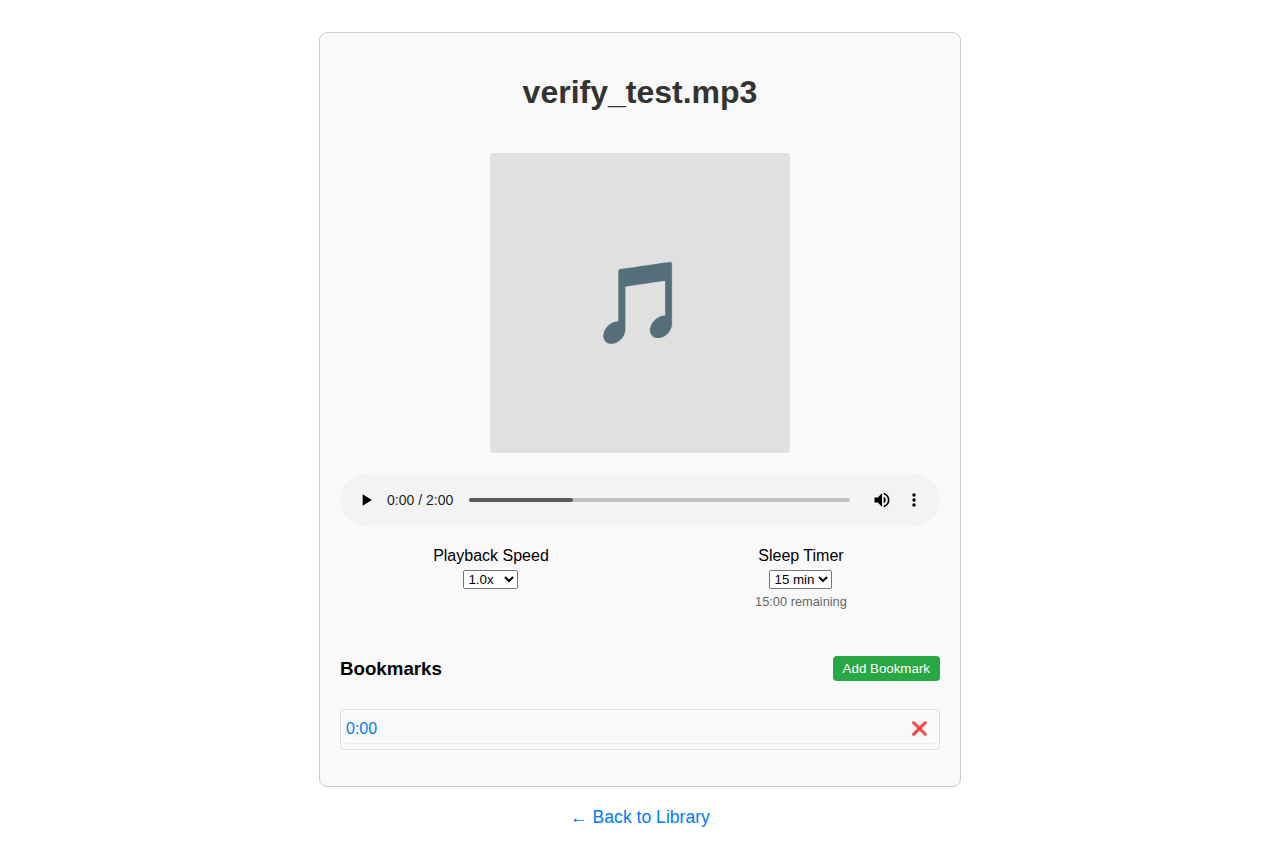
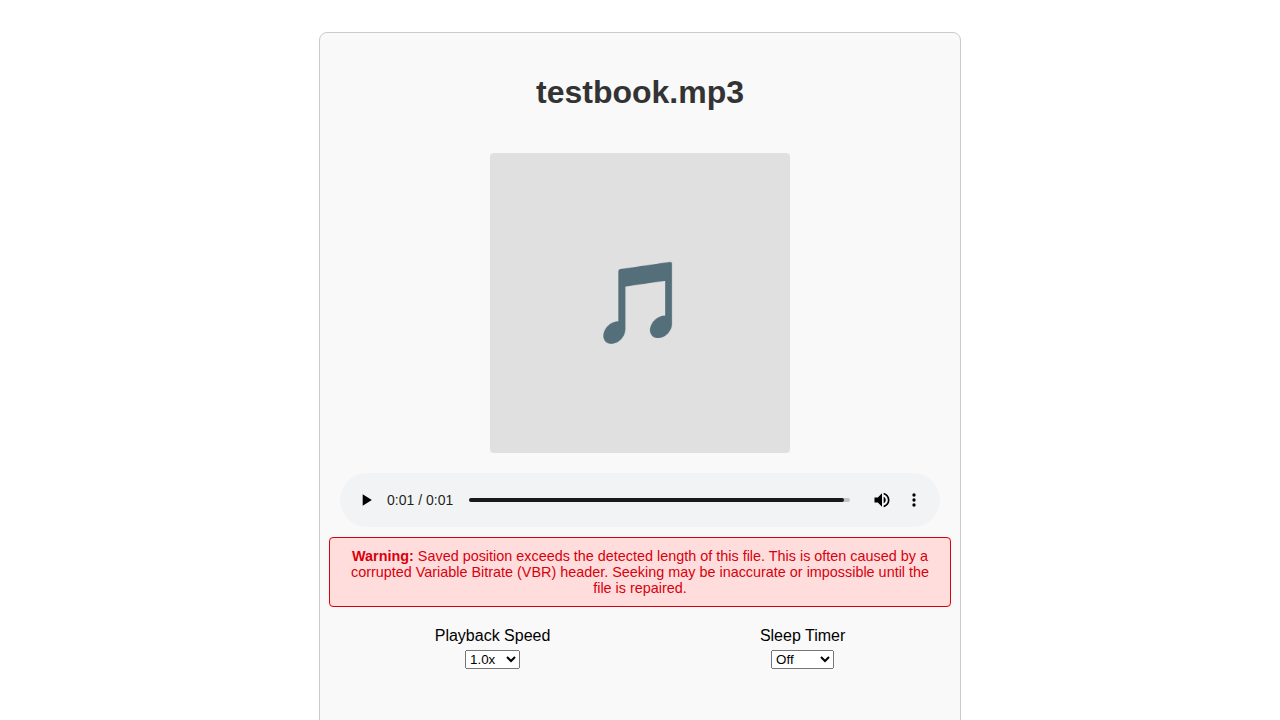
Add frontend VBR duration misalignment check

diff --git a/templates/listen.html b/templates/listen.html
@@ -60,6 +60,10 @@
             Your browser does not support the audio element.
         </audio>
 
+        <div id="vbrWarning" style="display: none; width: 100%; background: #ffdddd; color: #d8000c; border: 1px solid #d8000c; border-radius: 4px; padding: 10px; margin-top: -10px; font-size: 0.9rem; text-align: center;">
+            <strong>Warning:</strong> Saved position exceeds the detected length of this file. This is often caused by a corrupted Variable Bitrate (VBR) header. Seeking may be inaccurate or impossible until the file is repaired.
+        </div>
+
         <div class="controls-container" style="display: flex; gap: 20px; width: 100%; justify-content: space-around; flex-wrap: wrap;">
             <div class="control-group" style="display: flex; flex-direction: column; align-items: center; gap: 5px;">
                 <label for="playbackSpeed">Playback Speed</label>
@@ -127,10 +131,18 @@
             localStorage.removeItem(storageKey);
         });
 
-        // Save duration
+        // Save duration and check for VBR misalignment
         audioPlayer.addEventListener('loadedmetadata', () => {
             if (!isNaN(audioPlayer.duration) && audioPlayer.duration !== Infinity) {
                 localStorage.setItem(durationKey, audioPlayer.duration);
+
+                // VBR duration misalignment check
+                if (savedPosition && parseFloat(savedPosition) > audioPlayer.duration) {
+                    const vbrWarning = document.getElementById('vbrWarning');
+                    if (vbrWarning) {
+                        vbrWarning.style.display = 'block';
+                    }
+                }
             }
         });
 

diff --git a/verify_ui.py b/verify_ui.py
@@ -2,59 +2,46 @@ from playwright.sync_api import sync_playwright
 import time
 import os
 
-def test_ui():
+def test_vbr_warning():
+    os.makedirs('library', exist_ok=True)
     with sync_playwright() as p:
         browser = p.chromium.launch(headless=True)
-        context = browser.new_context()
-        page = context.new_page()
+        page = browser.new_page()
 
-        # Generate a dummy MP3 if library is empty to ensure we have a book to view
-        os.system('mkdir -p library')
-        if not os.path.exists('library/verify_test.mp3'):
-            os.system('ffmpeg -y -f lavfi -i anullsrc=r=44100:cl=mono -t 120 -q:a 9 -acodec libmp3lame library/verify_test.mp3 2>/dev/null')
+        # Start server in background
+        import subprocess
+        server = subprocess.Popen(['python', 'app.py'])
+        time.sleep(2) # wait for server to start
 
-        # Visit library
-        print("Visiting library...")
-        page.goto('http://127.0.0.1:5000/')
-        page.wait_for_selector('h1')
+        try:
+            # We need to set a local storage value that implies a long saved position
+            # for a book that has a short duration.
+            # But first we need to open the page to set local storage
+            page.goto("http://127.0.0.1:5000/")
+            # Set up the condition: we need a book_name. Let's use 'testbook'
+            # To do that, let's create a dummy mp3 in library/
+            subprocess.run(['ffmpeg', '-y', '-f', 'lavfi', '-i', 'anullsrc=r=44100:cl=mono', '-t', '1', '-q:a', '9', '-acodec', 'libmp3lame', 'library/testbook.mp3'], stderr=subprocess.DEVNULL)
 
-        # Visit Listen page
-        print("Visiting listen page...")
-        page.goto('http://127.0.0.1:5000/listen/verify_test.mp3')
-        page.wait_for_selector('#playbackSpeed')
+            page.goto("http://127.0.0.1:5000/")
 
-        # Drop a bookmark
-        print("Dropping bookmark...")
-        page.click('#addBookmarkBtn')
+            # Now set the local storage before going to listen page
+            page.evaluate("""() => {
+                localStorage.setItem('audiobook_position_testbook.mp3', '3600'); // 1 hour
+            }""")
 
-        # Set sleep timer
-        print("Setting sleep timer...")
-        page.select_option('#sleepTimer', '15')
+            # Go to listen page
+            page.goto("http://127.0.0.1:5000/listen/testbook.mp3")
 
-        # Screenshot listen page
-        print("Taking listen page screenshot...")
-        page.screenshot(path='listen_ui_verify.png', full_page=True)
+            # Wait for the loadedmetadata event which triggers the check
+            # We can wait for the warning to become visible
+            page.wait_for_selector('#vbrWarning', state='visible', timeout=5000)
 
-        # Trigger loadedmetadata by playing briefly
-        print("Playing audio briefly to trigger metadata and position save...")
-        page.evaluate("document.getElementById('audioPlayer').play()")
-        time.sleep(2)
-        page.evaluate("document.getElementById('audioPlayer').pause()")
-        time.sleep(1)
+            # Take screenshot
+            page.screenshot(path="listen_ui_verify.png")
+            print("Screenshot saved to listen_ui_verify.png")
+        finally:
+            server.terminate()
+            browser.close()
 
-        # Visit library again
-        print("Visiting library again...")
-        page.goto('http://127.0.0.1:5000/')
-        page.wait_for_selector('.book')
-
-        # Wait a bit for JS to execute
-        time.sleep(1)
-
-        # Screenshot library page
-        print("Taking library page screenshot...")
-        page.screenshot(path='library_ui_verify.png', full_page=True)
-
-        browser.close()
-
-if __name__ == '__main__':
-    test_ui()
+if __name__ == "__main__":
+    test_vbr_warning()
